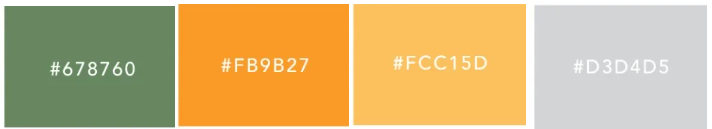
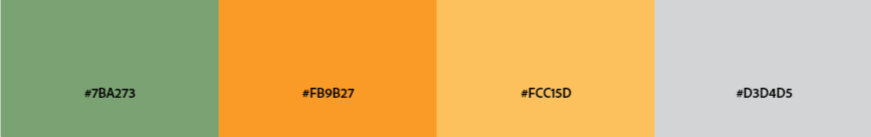
Update color in README.md

diff --git a/README.md b/README.md
@@ -130,23 +130,24 @@ In essence, our goal is to seamlessly blend commercial success with our commitme
 ## UX
 ### Color Scheme
 
-I researched colour schemes on [ShutterStock](https://www.shutterstock.com/blog/sustainable-design-color-palettes). I decided to choose their pre-made "Clean Living theme(as seen below)
+I researched colour schemes on [ShutterStock](https://www.shutterstock.com/blog/sustainable-design-color-palettes). I decided to choose their pre-made "Clean Living theme" Except I chose a lighter green for contrast reasons. The orriginal theme used #678760(Sage Green) and I chose #7BA273(Muted Pea Green).
+
 ![colourscheme](documentation/colourscheme.webp)
 
 ### Color by color:
 
- - **Sage Green**
-![SageGreen](documentation/sagegreen.webp)
+ - **Muted Pea Green**
+![Muted Pea Green](documentation/peagreen.webp)
 
-     - Connection with Nature: Green hues are typically linked with nature, suggesting a sense of growth, renewal, and life. This particular shade of green, reminiscent of natural foliage, can evoke feelings of being grounded and connected to the natural world.
+     - Natural and Restorative: This shade of green, similar to fresh peas, connects deeply with nature. It symbolizes growth, renewal, and the rejuvenating qualities of the natural world. Its muted tone suggests a calming effect, much like a peaceful, verdant landscape.
 
-     - Balance and Harmony: Green is considered a color of balance and harmony, derived from its position in the color spectrum being in the middle of warm and cool tones. This shade of sage green, with its balanced mix of green and gray, can reinforce these qualities.
+     - Balance and Stability: As with most greens, #7BA273 offers a sense of balance. It is neither too bold nor too subtle, providing a stable visual anchor. This quality makes it excellent for designs aiming to convey a sense of equilibrium and steadiness.
 
-     - Health and Wellness: Often, green is associated with health and wellness. This might be due to its prevalent presence in healthy natural foods and its representation of vitality and freshness.
+     - Refreshing and Revitalizing: Muted Pea Green carries an inherently refreshing quality, reminiscent of lush foliage and new growth. It can create a sense of revitalization, especially when used in spaces or designs meant for relaxation and rejuvenation.
 
-     - Sophistication and Elegance: The muted quality of this sage green can impart a sense of sophistication and understated elegance. It's often used in interior design to create a chic, yet calming atmosphere.
+     - Understated Elegance: Unlike more vivid greens, this shade is more restrained and sophisticated. It offers an elegance that is subtle and not overly opulent, suitable for designs that aim for an upscale yet approachable look.
 
-     - Subtlety and Softness: Unlike brighter or darker greens, this shade is more subtle and soft, which can create a more welcoming and less overwhelming space. It's often favored in design for its versatility and gentle appearance.
+     - Comfort and Serenity: This particular green hue imparts a sense of comfort and serenity, making it ideal for environments where peace and calm are desired. It's a color that can soothe the senses and promote a tranquil atmosphere.
 
 - **Tangerine**
 ![Tangerine](documentation/tangerine.webp)
